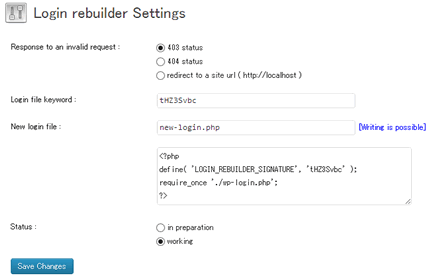
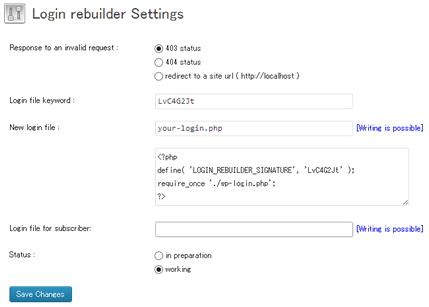
1.1.0 release. Login page for subscriber is available.
git-svn-id: https://plugins.svn.wordpress.org/login-rebuilder/trunk@804137 b8457f37-d9ea-0310-8a92-e5e31aec5664

diff --git a/login-rebuilder.php b/login-rebuilder.php
@@ -4,7 +4,7 @@ Plugin Name: Login rebuilder
 Plugin URI: http://elearn.jp/wpman/column/login-rebuilder.html
 Description: This plug-in will make a new login page for your site.
 Author: tmatsuur
-Version: 1.0.3
+Version: 1.1.0
 Author URI: http://12net.jp/
 */
 
@@ -15,7 +15,7 @@ This program is licensed under the GNU GPL Version 2.
 
 define( 'LOGIN_REBUILDER_DOMAIN', 'login-rebuilder' );
 define( 'LOGIN_REBUILDER_DB_VERSION_NAME', 'login-rebuilder-db-version' );
-define( 'LOGIN_REBUILDER_DB_VERSION', '1.0.3' );
+define( 'LOGIN_REBUILDER_DB_VERSION', '1.1.0' );
 define( 'LOGIN_REBUILDER_PROPERTIES', 'login-rebuilder' );
 
 $plugin_login_rebuilder = new login_rebuilder();
@@ -41,6 +41,7 @@ require_once './wp-login.php';
 		$this->properties = get_site_option( LOGIN_REBUILDER_PROPERTIES,
 			array( 'status'=>self::LOGIN_REBUILDER_STATUS_IN_PREPARATION,
 					'page'=>$candidate[ array_rand( $candidate ) ],
+					'page_subscriber'=>'',
 					'keyword'=>$this->generate_keyword(),
 					'response'=>self::LOGIN_REBUILDER_RESPONSE_403 ) );
 		if ( is_multisite() )
@@ -56,6 +57,10 @@ require_once './wp-login.php';
 			add_action( 'login_init', array( &$this, 'login_init' ) );
 			add_filter( 'site_url', array( &$this, 'site_url' ), 10, 4 );
 			add_filter( 'wp_redirect', array( &$this, 'wp_redirect' ), 10, 2 );
+			if ( $this->properties['page_subscriber'] != '' &&
+				strpos( $_SERVER['REQUEST_URI'], '/'.$this->properties['page_subscriber'] ) !== false &&
+				$this->is_valid_new_login_file( $this->properties['page_subscriber'] ) )
+				add_filter( 'authenticate', array( &$this, 'subscriber_authenticate' ), 99, 3 );
 		}
 	}
 	private function generate_keyword() {
@@ -79,7 +84,7 @@ require_once './wp-login.php';
 
 	function login_init() {
 		if ( preg_match( '/\/wp\-login\.php/u', $_SERVER['REQUEST_URI'] ) ||
-			( strpos( $_SERVER['REQUEST_URI'], $this->properties['page'] ) !== false && ( !defined( 'LOGIN_REBUILDER_SIGNATURE' ) || $this->properties['keyword'] != LOGIN_REBUILDER_SIGNATURE ) ) ) {
+			!( ( strpos( $_SERVER['REQUEST_URI'], '/'.$this->properties['page'] ) !== false || strpos( $_SERVER['REQUEST_URI'], '/'.$this->properties['page_subscriber'] ) !== false ) && defined( 'LOGIN_REBUILDER_SIGNATURE' ) && $this->properties['keyword'] == LOGIN_REBUILDER_SIGNATURE ) ) {
 			switch ( $this->properties['response'] ) {
 				case self::LOGIN_REBUILDER_RESPONSE_GO_HOME:
 					wp_redirect( home_url() );
@@ -96,17 +101,46 @@ require_once './wp-login.php';
 		}
 	}
 	function site_url( $url, $path, $orig_scheme, $blog_id ) {
+		$my_login_page = $this->properties['page'];
+		$user = wp_get_current_user();
+		if ( $this->properties['page_subscriber'] != '' && ( strpos( $_SERVER['REQUEST_URI'], '/'.$this->properties['page_subscriber'] ) !== false || ( isset( $user->data ) && !$user->has_cap( 'edit_posts' ) ) ) )
+			$my_login_page = $this->properties['page_subscriber'];
+
 		if ( $path == 'wp-login.php' &&
-			( is_user_logged_in()  || strpos( $_SERVER['REQUEST_URI'], $this->properties['page'] ) !== false ) )
-			$url = str_replace( 'wp-login.php', $this->properties['page'], $url );
+			( is_user_logged_in()  || strpos( $_SERVER['REQUEST_URI'], '/'.$my_login_page ) !== false ) )
+			$url = str_replace( 'wp-login.php', $my_login_page, $url );
 		return $url;
 	}
 	function wp_redirect( $location, $status ) {
-		if ( preg_match( '/\/'.str_replace( array( '-', '.' ), array( '\\-', '\\.' ), $this->properties['page'] ).'/u', $_SERVER['REQUEST_URI']) )
-			$location = str_replace( 'wp-login.php', $this->properties['page'], $location );
+		$my_login_page = $this->properties['page'];
+		$user = wp_get_current_user();
+		if ( $this->properties['page_subscriber'] != '' && ( strpos( $_SERVER['REQUEST_URI'], '/'.$this->properties['page_subscriber'] ) !== false || ( isset( $user->data ) && !$user->has_cap( 'edit_posts' ) ) ) )
+			$my_login_page = $this->properties['page_subscriber'];
+
+		if ( preg_match( '/\/'.str_replace( array( '-', '.' ), array( '\\-', '\\.' ), $my_login_page ).'/u', $_SERVER['REQUEST_URI']) )
+			$location = str_replace( 'wp-login.php', $my_login_page, $location );
+		else if ( preg_match( '/reauth\=1$/u', $location ) ) {
+			if ( is_user_admin() )
+				$scheme = 'logged_in';
+			else
+				$scheme = apply_filters( 'auth_redirect_scheme', '' );
+			if ( $cookie_elements = wp_parse_auth_cookie( '',  $scheme ) ) {
+				extract( $cookie_elements, EXTR_OVERWRITE );
+				$user = get_user_by( 'login', $username );
+				if ( $user ) // timeout
+					$location = str_replace( 'wp-login.php?', $my_login_page.'?', $location );
+			}
+		}
 		return $location;
 	}
-	
+	function subscriber_authenticate( $user, $username, $password ) {
+		if ( !is_a( $user, 'WP_User' ) )
+			return $user;
+
+		if ( !( isset( $user->caps['subscriber'] ) && $user->caps['subscriber'] ) )
+			return new WP_Error( 'authentication_failed', __( '<strong>ERROR</strong>: Invalid  username.', LOGIN_REBUILDER_DOMAIN ) );
+		return $user;
+	}
 	function plugin_row_meta( $links, $file ) {
 		if ( $file == plugin_basename( dirname( __FILE__ ) ).'/'.basename( __FILE__ ) ) {
 			$links[] = '<a href="options-general.php?page='.self::LOGIN_REBUILDER_PROPERTIES_NAME.'">'.__( 'Settings' ).'</a>';
@@ -125,31 +159,45 @@ require_once './wp-login.php';
 					'wp-pass.php', 'wp-rdf.php', 'wp-register.php', 'wp-rss.php', 'wp-rss2.php',
 					'wp-settings.php', 'wp-signup.php', 'wp-trackback.php', 'xmlrpc.php' ) );
 	}
-	private function is_valid_new_login_file() {
+	private function is_valid_new_login_file( $filename = null ) {
+		if ( is_null( $filename ) )
+			$filename = $this->properties['page'];
 		return 
 			preg_replace( "/\r\n|\r|\n/", "\r", str_replace( '%sig%', $this->properties['keyword'], $this->content ) ) == 
-			preg_replace( "/\r\n|\r|\n/", "\r", trim( file_get_contents( ABSPATH.$this->properties['page'] ) ) );
+			preg_replace( "/\r\n|\r|\n/", "\r", trim( file_get_contents( ABSPATH.$filename ) ) );
 	}
 
 	function properties() {
 		$message = '';
 		if ( isset( $_POST['properties'] ) ) {
 			$_POST['properties']['page'] = trim( $_POST['properties']['page'] );
+			$_POST['properties']['page_subscriber'] = trim( $_POST['properties']['page_subscriber'] );
 			if ( $this->is_reserved_login_file( $_POST['properties']['page'] ) ) {
-				$message = __( 'New login file is system file. Please change a file name.' );
+				$message = __( 'New login file is system file. Please change a file name.', LOGIN_REBUILDER_DOMAIN );
+				$this->properties = $_POST['properties'];
+			} else if ( $_POST['properties']['page_subscriber'] != '' && ( $_POST['properties']['page_subscriber'] == $_POST['properties']['page'] || $this->is_reserved_login_file( $_POST['properties']['page_subscriber'] ) ) ) {
+				$message = __( 'Login file for subscriber is invalid. Please change a file name.', LOGIN_REBUILDER_DOMAIN );
 				$this->properties = $_POST['properties'];
 			} else {
 				$message = __( 'Options saved.' ).' ';
 				if ( $this->properties['keyword'] != $_POST['properties']['keyword'] ||
-					$this->properties['page'] != $_POST['properties']['page'] ) {
+					$this->properties['page'] != $_POST['properties']['page'] ||
+					$this->properties['page_subscriber'] != $_POST['properties']['page_subscriber'] ) {
 					$this->properties['keyword'] = $_POST['properties']['keyword'];
 					$this->properties['page'] = $_POST['properties']['page'];
+					$this->properties['page_subscriber'] = $_POST['properties']['page_subscriber'];
 					$result = $this->try_save( array_merge( $_POST['properties'], array( 'mode'=>1 ) ) );
 					if ( $result['update'] ) {
 						$this->properties['status'] = intval( $_POST['properties']['status'] );
 					} else if ( !@file_exists( ABSPATH.$this->properties['page'] ) || !$this->is_valid_new_login_file() ) {
 						$message .= __( "However, failed to write a new login file to disk.\nPlease change into the enabled writing of a disk or upload manually.", LOGIN_REBUILDER_DOMAIN );
 						$this->properties['status'] = self::LOGIN_REBUILDER_STATUS_IN_PREPARATION;
+					}
+					$subscriber = $_POST['properties'];
+					$subscriber['page'] = $subscriber['page_subscriber'];
+					$result = $this->try_save( array_merge( $subscriber, array( 'mode'=>1 ) ) );
+					if ( !$result['update'] && ( !@file_exists( ABSPATH.$this->properties['page_subscriber'] ) || !$this->is_valid_new_login_file( $this->properties['page_subscriber'] ) ) ) {
+						$message .= __( "However, failed to write a login file for subscriber to disk.\nPlease change into the enabled writing of a disk or upload manually.", LOGIN_REBUILDER_DOMAIN );
 					}
 				} else {
 					$this->properties['status'] = intval( $_POST['properties']['status'] );
@@ -214,6 +262,11 @@ require_once './wp-login.php';
 </tr>
 
 <tr valign="top">
+<th><label for="properties_page"><?php _e( 'Login file for subscriber:', LOGIN_REBUILDER_DOMAIN ); ?></label></th>
+<td><input type="text" name="properties[page_subscriber]" id="properties_page_subscriber" value="<?php _e( $this->properties['page_subscriber'] ); ?>" class="regular-text code" />&nbsp;<span id="writable_subscriber">&nbsp;</span></td>
+</tr>
+
+<tr valign="top">
 <th><?php _e( 'Status :', LOGIN_REBUILDER_DOMAIN ); ?></th>
 <td>
 <input type="radio" name="properties[status]" id="properties_status_0" value="<?php _e( self::LOGIN_REBUILDER_STATUS_IN_PREPARATION ); ?>" <?php checked( $this->properties['status'] == self::LOGIN_REBUILDER_STATUS_IN_PREPARATION ); ?> /><label for="properties_status_0">&nbsp;<span><?php _e( 'in preparation', LOGIN_REBUILDER_DOMAIN ); ?></span></label><br />
@@ -231,28 +284,33 @@ require_once './wp-login.php';
 </div>
 </div>
 <script type="text/javascript">
-jQuery( 'a' ).each( function () {
-	jQuery( this ).attr( 'href', jQuery( this ).attr( 'href' ).replace( '<?php echo $logout_from; ?>', '<?php echo $logout_to; ?>' ) );
-} );
-jQuery( '#properties_keyword' ).blur( function () {
-	jQuery( '#login_page_content' ).val( jQuery( '#content_template' ).val().replace( '%sig%', jQuery( this ).val() ) );
-} );
-jQuery( '#properties_page' ).blur( function () {
-	var url = jQuery.trim( jQuery( this ).val() );
-	if ( url != '' ) {
-		jQuery.post( '<?php echo admin_url( 'admin-ajax.php' ); ?>',
-			{ action: 'login_rebuilder_try_save', mode: 0, page: url },
-			function( response ) {
-				if ( response.data.writable ) {
-					jQuery( '#writable' ).text( '[<?php _e( 'Writing is possible', LOGIN_REBUILDER_DOMAIN ); ?>]' ).css( 'color', 'blue' );
-				} else {
-					jQuery( '#writable' ).text( '[<?php _e( 'Writing is impossible', LOGIN_REBUILDER_DOMAIN ); ?>]' ).css( 'color', 'orange' );
-				}
-			}, 'json' );
-	}
-} );
-jQuery( '#properties_keyword' ).blur();
-jQuery( '#properties_page' ).blur();
+( function($) {
+	$( 'a' ).each( function () {
+		$( this ).attr( 'href', jQuery( this ).attr( 'href' ).replace( '<?php echo $logout_from; ?>', '<?php echo $logout_to; ?>' ) );
+	} );
+	$( '#properties_keyword' ).blur( function () {
+		$( '#login_page_content' ).val( $( '#content_template' ).val().replace( '%sig%', $( this ).val() ) );
+	} );
+	$( '#properties_page, #properties_page_subscriber' ).blur( function () {
+		var page_elm = $( this );
+		var url = $.trim( $( this ).val() );
+		if ( url != '' ) {
+			$.post( '<?php echo admin_url( 'admin-ajax.php' ); ?>',
+				{ action: 'login_rebuilder_try_save', mode: 0, page: url },
+				function( response ) {
+					console.log( response.data );
+					if ( response.data.writable ) {
+						page_elm.next( 'span' ).text( '[<?php _e( 'Writing is possible', LOGIN_REBUILDER_DOMAIN ); ?>]' ).css( 'color', 'blue' );
+					} else {
+						page_elm.next( 'span' ).text( '[<?php _e( 'Writing is impossible', LOGIN_REBUILDER_DOMAIN ); ?>]' ).css( 'color', 'orange' );
+					}
+				}, 'json' );
+		}
+	} );
+	$( '#properties_keyword' ).blur();
+	$( '#properties_page' ).blur();
+	$( '#properties_page_subscriber' ).blur();
+} )( jQuery );
 </script>
 <?php
 	}

diff --git a/uninstall.php b/uninstall.php
@@ -1,11 +1,26 @@
 <?php
+function is_reserved_login_file( $filename ) {
+	return in_array( $filename,
+			array( 'index.php', 'wp-activate.php', 'wp-app.php', 'wp-atom.php', 'wp-blog-header.php',
+					'wp-comments-post.php', 'wp-commentsrss2.php', 'wp-config.php', 'wp-config-sample.php', 'wp-cron.php',
+					'wp-feed.php', 'wp-links-opml.php', 'wp-load.php', 'wp-login.php', 'wp-mail.php',
+					'wp-pass.php', 'wp-rdf.php', 'wp-register.php', 'wp-rss.php', 'wp-rss2.php',
+					'wp-settings.php', 'wp-signup.php', 'wp-trackback.php', 'xmlrpc.php' ) );
+}
+
 if ( ! defined( 'WP_UNINSTALL_PLUGIN' ) )
 	exit();
 
 define( 'LOGIN_REBUILDER_PROPERTIES', 'login-rebuilder' );
 $properties = get_site_option( LOGIN_REBUILDER_PROPERTIES, array( 'deleted'=>true ) );
-if ( isset( $properties['page'] ) )
+if ( isset( $properties['page'] ) &&
+	!is_reserved_login_file( $properties['page'] ) &&
+	@file_exists( ABSPATH.$properties['page'] ) )
 	@unlink( ABSPATH.$properties['page'] );
+if ( isset( $properties['page_subscriber'] ) &&
+	!is_reserved_login_file( $properties['page_subscriber'] ) &&
+	@file_exists( ABSPATH.$properties['page_subscriber'] ) )
+	@unlink( ABSPATH.$properties['page_subscriber'] );
 if ( !isset( $properties['deleted'] ) )
 	delete_site_option( LOGIN_REBUILDER_PROPERTIES );
 ?>
